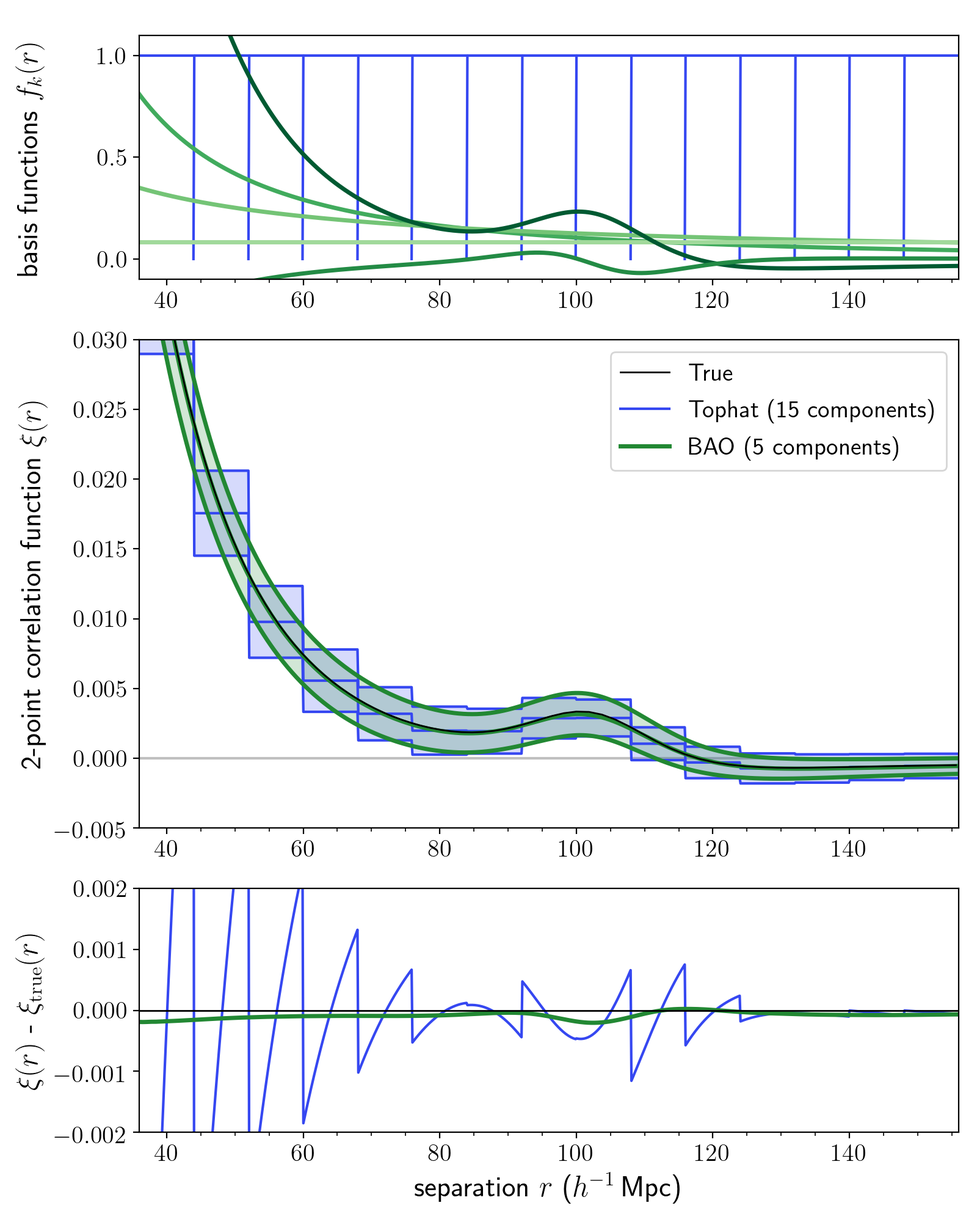
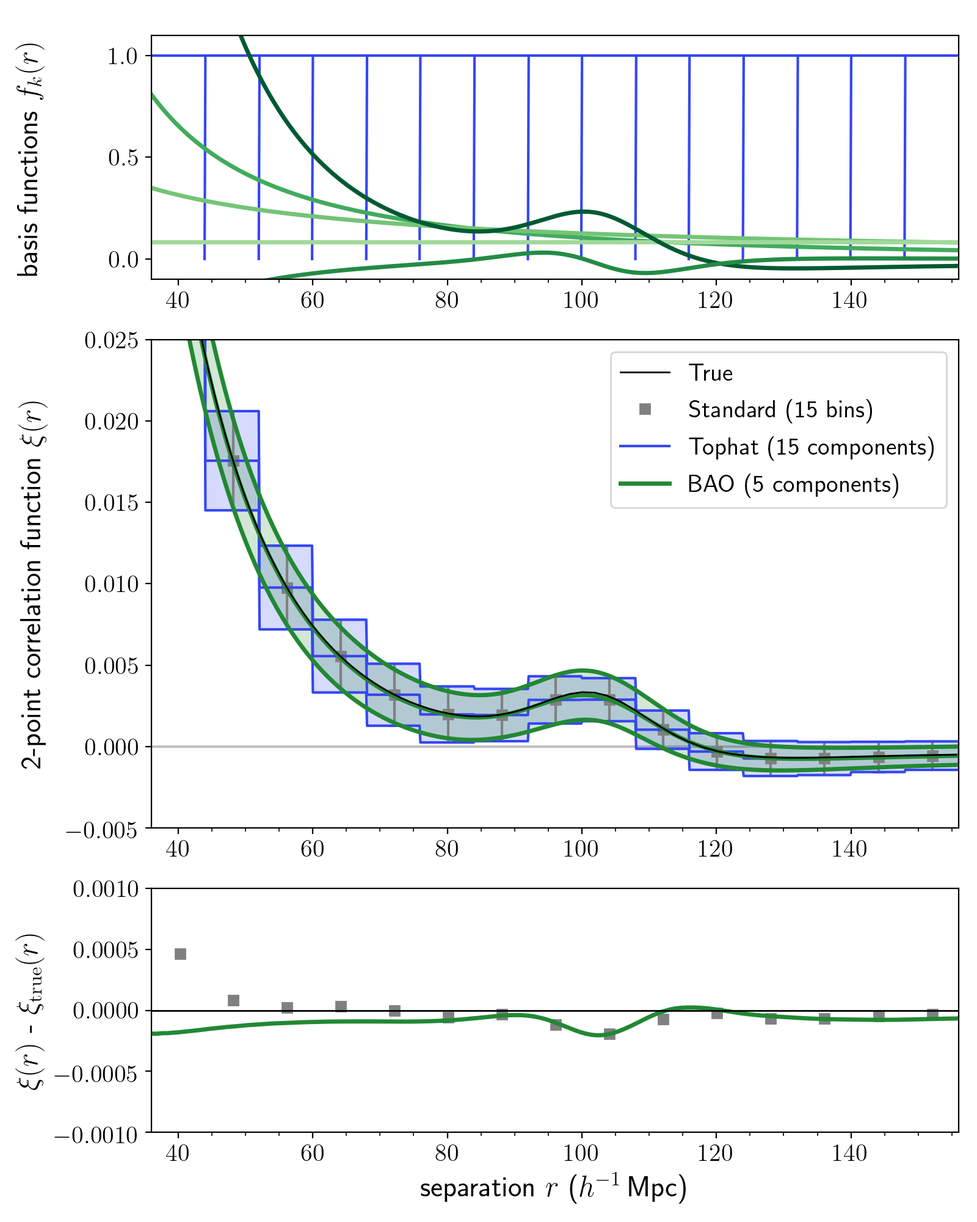
updated figures with binned version, and related text

diff --git a/paper/cont-estimator.tex b/paper/cont-estimator.tex
@@ -97,12 +97,12 @@ Upcoming galaxy surveys including DESI \citep{Aghamousa2016}, Euclid \citep{Laur
 The most important statistic for characterizing the LSS is the two-point correlation function (\cf).
 \new{It measures the excess probability of finding two galaxies are separated by a given distance, compared to a spatially random Poisson distribution;} effectively, it characterizes the strength of clustering at a given spatial scale.
 The \cf is the primary tool for extracting cosmological information from galaxy redshift surveys.
-Such correlation function analyses include \cite{Hawkins2003} for the 2dF Galaxy Redshift Survey (2dFGRS, \citealt{Colless2001}), \cite{Alam2016} for the Baryon Oscillation Spectroscopic Survey (BOSS, \citealt{Dawson2013}) DR12 analysis, and \cite{Elvin-Poole2017} for the Dark Energey Survey (DES, \citealt{DES2005}).
+Such correlation function analyses include \cite{Hawkins2003} for the 2dF Galaxy Redshift Survey (2dFGRS, \citealt{Colless2001}), \cite{Alam2016} for the Baryon Oscillation Spectroscopic Survey (BOSS, \citealt{Dawson2013}) DR12 analysis, and \cite{Elvin-Poole2017} for the Dark Energy Survey (DES, \citealt{DES2005}).
 
 Traditionally, the \cf is estimated in bins of radial separation.
 \new{Recent work has focused on the inappropriateness and limitations of binning in astrophysical contexts.}
 Broadly, binning adds arbitrary boundaries between continuous data; results should not depend on bin choice, yet they sometimes do.
-\new{It also results in the well-known trade-off between bias and variance: fewer bins may bias the result (i.e. reduce the accuracy), while more bins will increase the variance of measurement (i.e. reduce the precision)}.
+\new{It results in the well-known trade-off between bias and variance: fewer bins may bias the result (i.e. reduce the accuracy), while more bins will increase the variance of measurement (i.e. reduce the precision)}.
 Finite-width bins also result in a loss of information about the property in which one is binning.
 \new{These issues have been demonstrated in various fields of astrophysics.}
 \new{\cite{Kipping2010} showed that temporal binning of transit lightcurves results in inaccurately recovered system parameters.}
@@ -112,12 +112,15 @@ From this literature it is clear that, when analyzing smooth quantities, binning
 
 \new{The issue of binning is particularly relevant in LSS analyses.}
 \cite{Bailoni2016} explored the dependence of clustering analyses on the number of redshift bins, finding a non-negligible difference in cosmological parameter uncertainties.
+\new{\cite{Schneider2009} showed that in cosmic shear analyses, increasing the number of bins increases the probability that the correlation function is not positive semi-definite, and therefore not statistically valid.}
 The implications for BAO analyses were explored by \cite{Percival2014}, who found that the effects of bin width are small but non-negligible; they showed that there is an optimal bin width given the analysis method that trades off statistical uncertainty against bias in the derived BAO peak location.
-Additionally, the error on the inverse covariance matrix estimate depends on the number of bins, with a larger number of bins resulting in a larger error that propogates to the estimated parameters \citep{Hartlap2007, Percival2014}.
+Generally, the loss of information inherent in binning may become a critical bottleneck as we work towards extreme precision in LSS analyses.
+
+Another critical issue for \cf analyses is that the error on the inverse covariance matrix estimate depends on the number of bins.
+A larger number of bins resulting in a larger error that propagates to the estimated parameters \citep{Hartlap2007, Percival2014}.
 This can be balanced by using a large number of mock galaxy catalogs, but these can be exceedingly expensive to generate.
 This is currently the limiting step in LSS analyses, with on the order of 1000 mock catalogs tailored to the survey needed to achieve the desired precision on the parameters.
 The requirements on the covariance matrix will get even more stringent as survey size increases and we push towards higher precision; the connection of this limiting step with bin choice merits scrutiny of binning in \cf analyses.
-Finally, the loss of information inherent in binning may become a critical bottleneck as we work towards extreme precision in LSS analyses.
 
 Estimators of the \cf have been studied extensively (e.g., \citealt{PeeblesHauser1974}; \citealt{DavisPeebles1983}; \citealt{Hamilton1993}).
 One of the difficulties in performing a two-point estimate is that nontrivial survey boundaries would bias a direct summation of pair counts.
@@ -153,7 +156,7 @@ It is particularly well-suited to the analysis of LSS features such as the BAO p
 
 This \documentname is organized as follows. 
 In Section~\ref{sec:motiv}, we motivate our estimator and explain its formulation.
-We demonstrate its application on a simulated data set, including a toy BAO analysis, in Section~\ref{sec:experiments}.
+We demonstrate its application on a simulated dataset, including a toy BAO analysis, in Section~\ref{sec:experiments}.
 We discuss the implications and other possible applications in Section~\ref{sec:discuss}. 
 
 
@@ -189,7 +192,7 @@ The components of the pair-count vectors are defined explicitly as
 where $\left[ \vv{} \right]_k$ is the pair counts in bin $k$ (which has bin edges $g_k$ and $h_k$), $i$ is an indicator function that returns $1$ if the the condition is true and otherwise returns $0$, $\bld{r}$ is the tracer position, the $n$ and $n'$ indices index data positions, and the $m$ and $m'$ indices index random catalog positions.
 The sums are over unique pairs, and for auto-correlations they exclude self-pairs; the normalization prefactors then account for the total number of possible pairs, explaining the difference between the auto- and cross-correlation factors.
 The tracer position can be in real or redshift space, or broken down into the transverse and line-of-sight directions in the anisotropic correlation function; in this \documentname we consider the isotropic real-space \cf for simplicity, but the estimators detailed here apply equally well to these alternative configurations.
-The estimator is also easily applicable to cross-correlations of two data sets.
+The estimator is also easily applicable to cross-correlations of two datasets.
  
 The \LS estimator is known to be optimal (i.e. it is unbiased and has minimum variance) under a particular set of conditions: in the limit of unclustered data, for a data volume much larger than the scales of interest, and an infinitely large random catalog. 
 In practice the latter two limits are sufficiently satisfied, but the data we are interested in are clustered.
@@ -239,7 +242,7 @@ This process is shown schematically in Figure~\ref{fig:schematic}, with a choice
 \begin{figure}[t!]
     \centering
     \includegraphics[width=0.6\textwidth]{schematic_spline}
-    \caption{\new{A schematic illustrating how \est works. The top panel shows a slice of a data set; each point represents a galaxy. One pair $\GG{n n'}$ is highlighted, with separation $r_{n n'}$ (blue line). The middle panel shows how \est performs the projection of the pair onto a chosen basis. Here we use cubic spline basis functions $f_k$ (see Section~\ref{sec:spline}; colored lines). The contribution of the pair to each basis function is given by the value of the function at separation $r_{n n'}$ (dashed blue line); this quantity is $f_k(r_{n n'})$ (colored diamonds). The bottom panel shows the basis functions weighted by the final amplitudes $a_k$, given by the combination of contributions by all pairs. The final \cf estimate $\xi(r)$ (thick black line) is the sum of these, as given by \eqt{eq:xi_proj}.}}
+    \caption{\new{A schematic illustrating how \est works. The top panel shows a slice of a dataset; each point represents a galaxy. One pair $\GG{n n'}$ is highlighted, with separation $r_{n n'}$ (blue line). The middle panel shows how \est performs the projection of the pair onto a chosen basis. Here we use cubic spline basis functions $f_k$ (see Section~\ref{sec:spline}; colored lines). The contribution of the pair to each basis function is given by the value of the function at separation $r_{n n'}$ (dashed blue line); this quantity is $f_k(r_{n n'})$ (colored diamonds). The bottom panel shows the basis functions weighted by the final amplitudes $a_k$, given by the combination of contributions by all pairs. The final \cf estimate $\xi(r)$ (thick black line) is the sum of these, as given by \eqt{eq:xi_proj}.}}
     \label{fig:schematic}
 \end{figure}
 
@@ -327,7 +330,7 @@ We discuss the implementation of \est in Section~\ref{sec:comp}.
 
 \subsection{Lognormal Mock Catalogs}
 
-We demonstrate the application of \est on a set of artifical data.
+We demonstrate the application of \est on a set of artificial data.
 We generate lognormal mock catalogs \citep{ColesJones1991} using the \texttt{lognormal\_galaxies} code by \citep{Agrawal2017}.
 We use an input power spectrum with the Planck cosmology, the same parameters used for the MultiDark--PATCHY simulations \citep{Kitaura2016} made for the Baryon Oscillation Spectroscopic Survey (BOSS, \citealt{Dawson2013}).
 This assumes a cold dark matter model with $\Omega_m = 0.307115$, $\Omega_b = 0.048206$, $\sigma_8 = 0.8288$, $n_s = 0.9611$, and $h = 0.6777$.
@@ -340,7 +343,7 @@ The results will hold for catalogs with realistic survey windows and random--ran
 \begin{figure}[ht]
     \centering
     \includegraphics[width=0.8\textwidth]{xicomparison_2e-4_tophat8_theory8}
-    \caption{A comparison between \est with a tophat basis (thin blue lines) and the standard estimator (grey squares). The top panel shows the basis functions used for the tophat estimator. The middle panel shows the mean of the estimated correlation functions for 1000 mock catalogs, compared to the true input \cf (thin black line); the shaded region and errorbars are the standard deviation of the \cf estimate. The lower panel shows the absolute error between the estimate and true \cf. \Est with a tophat basis is exactly equivalent to the standard estimator, but in a continuous form, emphasizing the fact that binning results in a poor representation of the true \cf.}
+    \caption{A comparison between \est with a tophat basis (thin blue lines) and the standard estimator (grey squares). The top panel shows the basis functions used for the tophat estimator. The middle panel shows the mean of the estimated correlation functions for 1000 mock catalogs, compared to the true input \cf (thin black line); the shaded region and error bars are the standard deviation of the \cf estimate. The lower panel shows the absolute error between the estimate and true \cf. \Est with a tophat basis is exactly equivalent to the standard estimator, but in a continuous form, emphasizing the fact that binning results in a poor representation of the true \cf.}
     \label{fig:tophat}
 \end{figure}
     
@@ -359,10 +362,11 @@ We choose tophat functions with the same locations and widths as the bins used f
 As this estimator computes the \cf in a continuous form, we plot the result as a continuous function at every $r$-value.
 In practice, this means choosing a fine grid of $r$-values at which to evaluate $\hat{\xi}(r)$; here we choose 1000 $r$-values across the separation range.
 This results in a step function form for the correlation function.
-The values of the correlation function at each step exactly align with the result of the standard estimator.
-In fact, we emphasize that this step function is exactly what the standard estimator is estimating; we have just made explicit the fact that the each estimate applies to the entire bin.
+The values of the \cf at each step exactly align with the result of the standard estimator.
+In fact, this step function is exactly what the standard estimator is estimating; we have just made explicit the fact that the each estimate applies to the entire bin.
 When we look at the error with respect to the truth (bottom panel), the error blows up at the edges of each bin, where the continuous estimate deviates most significantly from the truth.
-This demonstrates one way in which the standard tophat estimator is not a good representation of the true \cf.
+\new{We recognize that in typical analyses one does not consider the error across the entire bin as shown; rather, one compares the \cf in the bin at some effective $r$-value to a model evaluated at that value.
+However, we show the tophat errors here to emphasize  how the standard binned estimator is a poor representation of the true \cf.}
 
 \subsection{Demonstration using Spline Basis Functions}
 \label{sec:spline}
@@ -373,23 +377,24 @@ They have the nice property that the functions and their derivatives can be cont
 Additionally, B-splines are well-localized, which provides a more direct comparison to the typical tophat basis (which is entirely localized).
 For this demonstration we use fourth-order B-splines, which constitute the set of basis functions for a cubic spline, as they are the lowest-order spline to have a continuous first derivative.
 
-We compare the estimator with a cubic-spline basis to the standard estimator, reformulated as continuous functions using a tophat basis; the results are shown in Figure~\ref{fig:spline}.
+We compare the estimator with a cubic-spline basis to the \new{\LS estimator, both in the standard binned representation and reformulated as continuous functions using a tophat basis;} the results are shown in Figure~\ref{fig:spline}.
 The basis functions are shown in the top panel of the figure.
 We use the same tophat basis as above.
 For the cubic-spline basis, we use the same $r$-range and number of basis functions, and knots chosen to evenly span the range. 
-The cubic-spline bases on the edge have different shapes such that they remain normalized; we note that generally, one should choose the basis functions such that the range of the \cf that is of interest does not depend on the range of the basis functions.
+The cubic-spline bases on the edge have different shapes such that they remain normalized; we note that generally, one should choose the basis functions such that the \cf range of interest does not depend on the range of the basis functions.
 
-The estimator using the cubic-spline basis clearly produces a better fit to the true correlation function in its shape and smoothness at every point across the scale range, compared to the estimator using the tophat basis.
-The bottom panel shows the error with respect to the truth; the \new{cubic-spline estimator is generally more accurate}, and straightforward to compare to the truth (or model) at every scale.
-On the other hand, in order to compare the binned correlation to a model, one must integrate the model over the bin range, though in practice the model is often just evaluated at the effective $r$ of each bin.
+\new{The middle panel shows that \est} using the cubic-spline basis clearly produces a better fit to the true correlation function in its shape and smoothness at every point across the scale range, compared to the estimator using the tophat basis.
+The bottom panel shows the error with respect to the truth; the \new{cubic-spline estimator is similar in accuracy}, and directly comparable to the truth (or model) at every scale.
+On the other hand, in order to compare the binned \cf to a model, one must integrate the model over the bin range, though in practice the model is often just evaluated at the effective $r$ of each bin.
+
 This comparison demonstrates that there exist other sets of basis functions that produce better representations of the data compared to the standard tophat/binned estimator.
 The choice of a high-order spline may be useful for cases in which one wants a mostly localized yet representative estimate of the \cf, or smooth derivatives.
-Generally, the choice of basis functions should be tailored to the scientific use case; in the next section we explore the case of a BAO analysis.
+Generally, the choice of basis functions should be tailored to the scientific goal; in the next section we explore the case of a BAO analysis.
 
 \begin{figure}[ht]
     \centering
         \includegraphics[width=0.8\textwidth]{xicomparison_2e-4_tophat8_spline}
-        \caption{A comparison between \est with a cubic-spline basis function (thick red) and a standard tophat basis (thin blue). The top panel shows the basis functions used for each measurement. The middle panel shows the mean of the estimated correlation functions for each of the 1000 mock catalogs compared to the true input \cf (thin black); the shaded region is the standard deviation. The lower panel shows the absolute error between the estimate and true \cf. It is clear that the spline basis function results in a correlation function that is a better representation of the true \cf in its shape and smoothness.}
+        \caption{\new{A demonstration of} \est with cubic-spline basis functions (thick red). \new{We compare the cubic-spline estimate to the standard binned Landy--Szalay estimate (grey squares), and to the continuous-function estimate with a tophat function (thin blue).} The top panel shows the basis functions used for each measurement. The middle panel shows the mean of the estimated correlation functions for each of the 1000 mock catalogs compared to the true input \cf (thin black); the shaded region \new{and error bars} are the standard deviation. The lower panel shows the absolute error between the estimate and true \cf; \new{we do not show the tophat error for clarity}. It is clear that the spline basis function results in a correlation function that is a better representation of the true \cf in its shape and smoothness.}
         \label{fig:spline}
     \end{figure}    
 
@@ -460,16 +465,16 @@ With this fiducial model, we can construct the basis functions for our estimator
 \begin{figure}[t]
 \centering
     \includegraphics[width=0.8\textwidth]{xicomparison_2e-4_tophat8_baoiter}
-    \caption{Estimation of the correlation function using our estimator with basis functions based on the BAO fitting function (thick green). The line is the mean of the final estimate from the iteration procedure for 1000 mocks, and the shaded region is the $1\sigma$ variation. We also show the standard Landy--Szalay estimator, displayed as a tophat function (thin blue), as well as the true input correlation function (thin black). The basis functions are the same as those shown in Figure~\ref{fig:bao_bases}, with arbitrary scaling.}
+    \caption{Estimation of the correlation function using \est with basis functions based on the BAO fitting function (thick green; same as in Figure~\ref{fig:bao_bases}, with arbitrary scaling). \new{We compare this to the standard binned Landy--Szalay estimator (grey squares), and to} \est with a tophat function (thin blue). \new{The panels are the same as in Figure~\ref{fig:spline}.}}
 \end{figure}
 
 We apply our iterative estimation procedure to each of the 1000 mocks; the mean of the resulting estimates for the correlation function is shown in Figure~\ref{fig:bao}.
 We show the BAO basis functions in the top panel, as in Figure~\ref{fig:bao_bases}.
-We compare \est using the BAO bases with that using tophat bases, as in the previous sections.
+We compare \est using the BAO bases with that using tophat bases, as in the previous sections; \new{we also show the standard representation of the binned estimator.}
 The correlation function estimated with the BAO bases clearly produces a more representative estimate at all scales.
 The estimate is also smoother than that produced using the cubic-spline basis functions (Figure~\ref{fig:spline}).
 More importantly, it is scientifically motivated: the estimator produces the relative contributions of the terms of the BAO fitting functions.
-This allows us to directly estimate the value of $\alpha$ for each of the 1000 mock catalogs.
+\new{This directly gives us the best-fit model for each of the 1000 mock catalogs, and} allows us to directly estimate the best-fit value of $\alpha$ for each one.
 The median estimate of the recovered scale dilation parameter is $\alpha=0.9975 \pm 0.0290$, where the uncertainty is based on the 16th and 84th percentiles; our estimate is very close to the true value of $\alpha = 0.9987$.
 
 We emphasize that the BAO-based estimate requires only five components, while the tophat basis requires 15 components (or bins, in the standard approach) in the same scale range.
@@ -500,7 +505,7 @@ We note that our approach does not actually help these choice issues.
 In fact, \est expands investigator choice almost infinitely, as the space of possible basis functions is far larger than the space of possible binnings.
 That said, \new{there are ways to make a well-motivated selection of basis functions.
 In cases where there is a clear scientific model that can be represented as a linear combination of terms, choosing this will result in the most direct recovery of the parameters of interest (e.g., our BAO estimate in Section~\ref{sec:bao}).
-When the investigator would like to remain model-agnostic and desires a continuous estimate, the choice of a basis such as splines, wavelets, or Fourier components may be appropriate.
+When the investigator would like to remain more model-agnostic and obtain a continuous estimate, the choice of a basis such as splines, wavelets, Fourier components, or a power law may be appropriate.
 There are various ways to compare the choice of basis functions; one approach is to perform cross-validation, which has proven useful in choosing histogram bins and kernels for density estimation \citep{Rudemo1982, Hogg2008}.}
 
 \new{We also note that \est could be prone to both over- and under-fitting.
@@ -535,8 +540,8 @@ While these formulations look similar, ours solves a different problem than thes
 Kernel density estimation (KDE) is a class of methods for estimating a probability density function from a set of data.
 KDE methods essentially smooth the data with a given kernel, often a Gaussian.
 This is useful when we want to reconstruct a distribution without making many assumptions about the data, as is required in parametric methods.
-KDEs have found use in many areas of astrophyics, for example to measure the 21cm power spectrum with reduced foreground contamination \citep{Trott2019}, and to estimate luminosity functions with superior performance compared to binned methods \citep{Yuan2020}.
-\cite{Hatfield2016} uses a KDE approach to estimate the angular correlation function, in order to address the issues of information loss and arbitrary bin choice inherent to binning; they optimize for the kernel choice, and find a correlation function consistant with that of the binned method.
+KDEs have found use in many areas of astrophysics, for example to measure the 21cm power spectrum with reduced foreground contamination \citep{Trott2019}, and to estimate luminosity functions with superior performance compared to binned methods \citep{Yuan2020}.
+\cite{Hatfield2016} uses a KDE approach to estimate the angular correlation function, in order to address the issues of information loss and arbitrary bin choice inherent to binning; they optimize for the kernel choice, and find a correlation function consistent with that of the binned method.
 
 Specifically, kernel density estimators take the contribution of each data point to be a kernel function centered on that value, and sum these to determine the full distribution.
 In contrast, \est projects each data point onto fixed basis functions, which are distinct from the typical understanding of kernels.
@@ -580,10 +585,10 @@ where we define
     \TT{DR} = \frac{2}{\NN{D}\,\NN{R}} \sum_{n} \sum_{m} \ff(\GG{n m}) \cdot \ff\T(\GG{n m}) ~.
 \end{equation}
 
-The continous form of these estimators can be extended to cross-correlations in the straightforward way expected.
+The continuous form of these estimators can be extended to cross-correlations in the straightforward way expected.
 This formulation could also be extended to nearly any linear combination of pair counts.
 The estimator of \cite{VargasMagana2013}, for instance, selects the optimal combination of pair counts; our estimators could be combined to create an even more generalized estimator.
-However, some estimator formulations use powers of these terms that are nontrivial to reformulate as normalization tensors for our estimation approach; we leave this problem for furture work.
+However, some estimator formulations use powers of these terms that are nontrivial to reformulate as normalization tensors for our estimation approach; we leave this problem for future work.
 
 \subsection{Implementation and Computational Performance}
 \label{sec:comp}
@@ -592,7 +597,7 @@ We implement \est within the correlation function package \texttt{Corrfunc} \cit
 \new{\texttt{Corrfunc} is the state-of-the-art package for computing correlation functions and other clustering statistics; it is written in C with python bindings and utilities.
 It is used in many published analyses, and it is modular, user-friendly, and open-source.}
 \texttt{Corrfunc} performs extremely fast pair identification, and can estimate correlation functions on both theoretical boxes and on-sky data.
-Our implentation of \est capitalizes on the power of \texttt{Corrfunc}, adding the necessary functionality into the existing framework.
+Our implementation of \est capitalizes on the power of \texttt{Corrfunc}, adding the necessary functionality into the existing framework.
 We allow the user to define the basis functions for continuous-function estimation, and for every pair identified, we pass the separation and any additional required tracer information to the basis functions.
 We output the projection vector and the projection tensor, as well as the traditional pair counts.
 We include additional functions to compute the amplitudes from these projections, and then to evaluate the continuous correlation function for these amplitudes at the desired points in parameter space, giving the user a high level of control at every step.
@@ -615,7 +620,8 @@ If the condition number large, then a rescaling of the basis functions or a rota
 \subsection{Effect on Covariance Matrix Estimation}
 \label{sec:covariance}
 
-\new{We have shown that \est, with a proper choice of basis functions, results in \cf estimates that are more accurate and use fewer components than binned estimates.}
+\KSF{I think we have to say this, and can't just say improved accuracy generally; because now that we're comparing to the binned errors, it's not clear that we're more accurate in any of these examples. An issue is that in our spline experiment which has the same number of components, we are also similar accuracy... but I think if you chose a better basis you could get improvement w same number of components. Do I need to explain this?}
+\new{We have shown that \est, with a proper choice of basis functions, results in \cf estimates that are just as accurate using fewer components compared to binned estimates (or, by extension, more accurate for the same number of components).}
 This reduction in component number is critical when estimating the covariance matrix, which is required for standard parameter inference.
 The covariance matrix is difficult to compute analytically, though there is promising progress on this front (e.g., \citealt{Wadekar2020}).
 For major analyses, it is usually estimated by evaluating the \cf on a large number of mock catalogs and computing the covariance between the bins (e.g., \citealt{Reid2010}; \citealt{Anderson2014}).
@@ -632,7 +638,7 @@ Standard practice applies a correction factor \citep{Hartlap2007},
 \bld{\hat{C}}\inv = \frac{\NN{mocks}-\NN{bins}-2}{\NN{mocks}-1} \left( \bld{\hat{C}}^\mathrm{ML} \right) \inv ~.
 \end{equation}
 However, this does not correct for errors in the covariance matrix; these propagate to errors on the estimated cosmological parameters, resulting in an overestimation of the error bars (\citealt{Hartlap2007}; \citealt{Dodelson2013} \citealt{Percival2014}; \citealt{TaylorJoachimi2014}).
-Assuming that $\NN{mocks} >> \NN{bins}$ (with both much larger than the number of parameters to be estimated), and that the measurements are Gaussian distribued, the error bars are inflated by a factor of $(1 + \NN{bins}/\NN{mocks})$ (i.e., the true constraints are tighter than the derived ones).
+Assuming that $\NN{mocks} >> \NN{bins}$ (with both much larger than the number of parameters to be estimated), and that the measurements are Gaussian-distributed, the error bars are inflated by a factor of $(1 + \NN{bins}/\NN{mocks})$ (i.e., the true constraints are tighter than the derived ones).
 This factor becomes critical at the precision of cosmological parameter estimation \citep{Percival2014}.
 
 Typically, this is dealt with by generating a very large number of mocks.
@@ -661,21 +667,21 @@ While this decorrelated covariance matrix is not used in the fitting in that ana
 \Est could also be used to obtain a decorrelated covariance matrix.
 One could perform an initial estimation with standard bins or basis functions, and then apply a transformation to decorrelation them.
 These decorrelated bins could then be passed to the estimator as basis functions, and the analysis run again, in order to obtain a direct estimation that produces representative diagonal errors.
-This might be particularly important for unlocalized basis functions such as the BAO basis functions, which are expected to have highly correlated errors.
+This might be particularly important for non-localized basis functions such as the BAO basis functions, which are expected to have highly correlated errors.
 Any covariance estimate will have to estimate these covariances well, but of course this is also true for the tophat basis where the covariances are nontrivial.
 
 \subsection{Further Applications}
 \label{sec:applications}
 
 The formulation of \est opens up many possibilities for extracting information from the correlation function.
-The most straightforward applications are standard basis functions or linearizeable astrophysical models, as we have shown for the standard BAO fitting function (Section~\ref{sec:bao}).
+The most straightforward applications are standard basis functions or linearizable astrophysical models, as we have shown for the standard BAO fitting function (Section~\ref{sec:bao}).
 
 One natural set of applications is extensions of the isotropic real-space analyses presented in this work.
 We could extend the spherically-averaged BAO analysis to a full anisotropic analysis, estimating the correlation function $\hat{\xi}(s, \mu)$ as a function of both the redshift-space separation $s$ and the cosine $\mu$ of the angle between $s$ and the line-of-sight direction (e.g. \citealt{Anderson2013}).
 This is typically done with a fine binning along the $\mu$ direction and then compressed into angular moments via multipoles or clustering wedges \citep{Kazin2012}; \est could obviate this line-of-sight binning in addition to the binning along separation as we have shown.
 Our estimator could similarly be extended to the 2-dimensional correlation function  $\hat{\xi}(r_p, \pi)$ used to separate out the effects of redshift-space distortions, with a parameterization of the pair separations parallel ($\pi$) and perpendicular ($r_p$) to the line of sight; this can then be integrated to give the projected real-space correlation function $w_p(r_p)$ \citep{DavisPeebles1983}.
 This projected \cf provides another useful way to test $\Lambda$CDM (e.g. \citealt{Nuza2013}).
-Our estimator could also be directly related to a power spectrum analysis by selecting a Fourier basis as our set of continuous functions, whhich would directly the data onto Fourier modes.
+Our estimator could also be directly related to a power spectrum analysis by selecting a Fourier basis as our set of continuous functions, which would directly project the data onto Fourier modes.
 This could represent a step towards unifying correlation function and power spectrum estimation.
 
 \Est could be applied to the direct estimation of cosmological parameters beyond the distance-redshift relation.
@@ -683,7 +689,8 @@ For instance, one perform an analysis focused on the growth rate of cosmic struc
 One could take this idea even further by choosing as basis functions a parametrized model of the \cf and the derivatives of this model with respect to all the parameters of interest, including cosmological parameters or halo occupation distribution parameters.
 \Est would then directly output the projection of the \cf onto the derivative terms, which would then be translatable to changes in the  model that best fits the data.
 This is analogous to the BAO analysis performed in Section~\ref{sec:bao}, but with a higher-dimensional space of derivatives of parameters of interest.
-This approach would essentially perform a direct estimation of the parameters, without the need for the intermediate steps of binning and fitting.
+This approach would essentially perform a direct estimation of the parameters, without the need for the intermediate steps of binning and fitting; \new{this could be particularly useful for extracting information from small-scale clustering.} 
+\KSF{tbh im not 100\% clear on why; chang mentioned this in his email. assume related to the fact that smaller scales have high measurement precision but also high theoretical complexity - but not sure exactly how this direct projection onto derivatives particularly helps here}     
 
 Another class of applications involves a choice of basis functions that depend not only on the separation between tracer pairs, but also on the properties of the tracers themselves.
 One such use case is the redshift dependence of the Alcock--Paczynski effect \citep{AlcockPaczynski1979}, which can be used to constrain the matter density $\Omega_m$ and the dark energy equation of state parameter $w$ \citep{Li2016}.
@@ -738,9 +745,8 @@ This produced an estimate of the \cf that inherently reflects our beliefs about 
 
 \acknowledgements
 KSF was supported by the Future Investigators in NASA Earth and Space Science and Technology (FINESST) award number 80NSSC20K1545 during the completion of this work.
-The authors thank Jeremy Tinker and Michael Blanton for helpful insights, and the members of the Flatiron Astronomical Data Group for useful feedback.
 KSF would like to acknowledge significant code feedback and support from Manodeep Sinha and Lehman Garrison.
-KSF also thanks Roman Scoccimarro, David Grier, Alex Barnett, Lucia Perez, James Rhoads, Sangeeta Malhotra, Drew Jamieson, and Chris Lovell for helpful discussions.
+The authors thank Michael Blanton, Jeremy Tinker, Roman Scoccimarro, David Grier, Alex Barnett, \new{Ashley Ross,} Lucia Perez, James Rhoads, Sangeeta Malhotra, \new{Martin White,} Drew Jamieson, Chris Lovell, and the members of the Flatiron Astronomical Data Group for helpful discussions and feedback.
 All of the code used in this \documentname is available open-source at \texttt{github.com/kstoreyf/Corrfunc} and \texttt{github.com/kstoreyf/continuous-estimator}. 
 
 
@@ -887,7 +893,7 @@ We implement the partial derivative in the fitting function of \eqt{eq:baoiter_f
 \begin{equation}
     \frac{\dd \xi^\mathrm{mod}(\alpha \, r)}{\dd \alpha} \leftarrow \frac{\xi^\mathrm{mod}(\alpha_\mathrm{guess} \, r) - \xi^\mathrm{mod}((\alpha_\mathrm{guess} + \Delta \alpha) \, r)}{\Delta \alpha} ~.
 \end{equation}
-In our implemenation we take $\Delta \alpha = 0.001$; we have checked that our results are insensitive to this choice.
+In our implementation we take $\Delta \alpha = 0.001$; we have checked that our results are insensitive to this choice.
 
 We choose the magnitudes of the basis functions $k$ to set them at similar scales, providing improved stability.
 We use the values $k_0=0.1$, $k_1=10.0$, $k_2=0.1$, and $k_3=0.001$, though we check that the results are insensitive to choices near these values.
